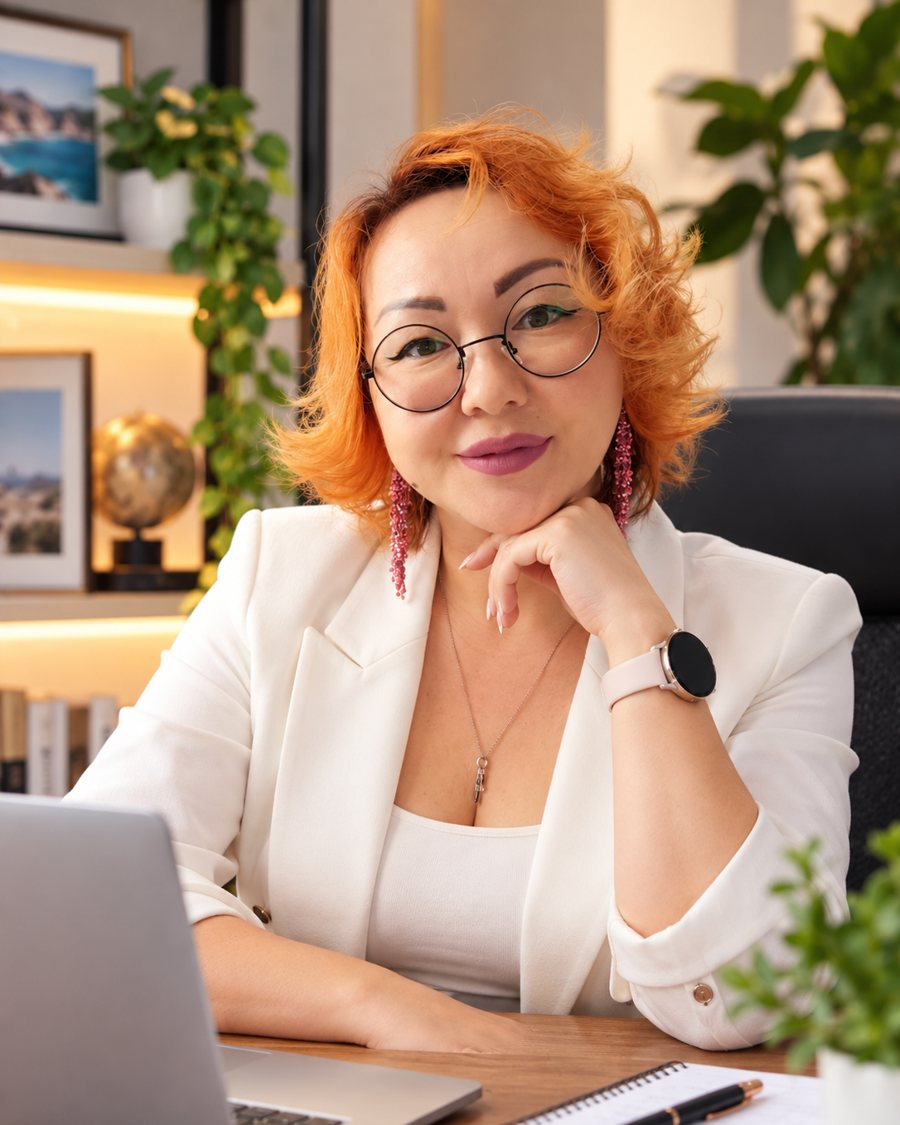
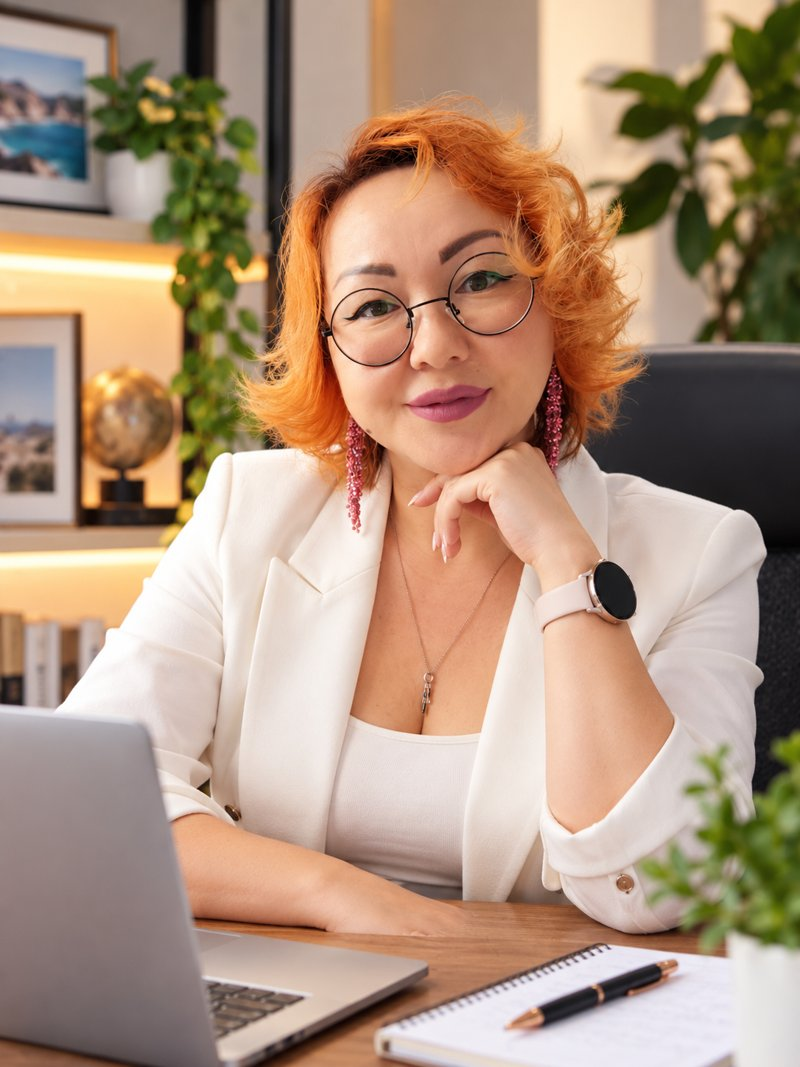
Блок «Обо мне»: фото целиком, компактнее
Claude-Session: https://claude.ai/code/session_01WqrSASqGq4Sod66Ta5CX9s

diff --git a/assets/styles.css b/assets/styles.css
@@ -9,7 +9,10 @@ a.primary{display:inline-block;text-decoration:none;text-align:center}
 .steps li::before{content:"0" counter(s);display:block;font-size:11px;letter-spacing:2px;color:var(--gold);margin-bottom:8px}
 .steps strong{font:22px Georgia}
 .steps p{margin:8px 0 0;font-size:14px}
-.about .portrait{width:280px;flex:none;aspect-ratio:4/5;object-fit:cover;object-position:50% 20%;border-radius:5px}
+.about .portrait{width:260px;height:auto;flex:none;border-radius:5px;display:block}
+.about{max-width:980px;margin-left:auto;margin-right:auto;padding:32px;gap:36px}
+.about h2{margin:10px 0 14px}
+.about p.muted{margin:0 0 14px}
 .about-list{list-style:none;padding:0;margin:0 0 24px;line-height:1.9}
 .about-list li::before{content:"— ";color:var(--gold)}
 .foot{margin-top:60px;padding-top:20px;border-top:1px solid #d9ddd5;font-size:12px;color:#5f6b64}
@@ -27,5 +30,5 @@ a.primary{display:inline-block;text-decoration:none;text-align:center}
 .card .row span:first-child{overflow:hidden;text-overflow:ellipsis;white-space:nowrap}
 .detail-bar{padding-bottom:calc(16px + env(safe-area-inset-bottom,0px))}
 .muted{color:#5f6b64}
-@media(max-width:850px){.steps{grid-template-columns:repeat(2,1fr)}.about .portrait{width:200px}}
-@media(max-width:520px){.steps{grid-template-columns:1fr}.about .portrait{width:100%;max-width:240px;margin-bottom:20px}.thumbs{grid-template-columns:repeat(3,1fr)}}
+@media(max-width:850px){.steps{grid-template-columns:repeat(2,1fr)}.about .portrait{width:210px}}
+@media(max-width:520px){.steps{grid-template-columns:1fr}.about .portrait{width:100%;max-width:260px;margin:0 auto 20px}.thumbs{grid-template-columns:repeat(3,1fr)}}

diff --git a/index.html b/index.html
@@ -74,7 +74,7 @@
   </section>
 
   <section class="about" id="about">
-    <img class="portrait" src="./assets/venera.jpg" alt="Венера Хасанова" loading="lazy" width="900" height="1125">
+    <img class="portrait" src="./assets/venera.jpg" alt="Венера Хасанова" loading="lazy" width="800" height="1067">
     <div>
       <span class="small">Лично. Внимательно. На каждом шаге.</span>
       <h2>Меня зовут Венера.</h2>
